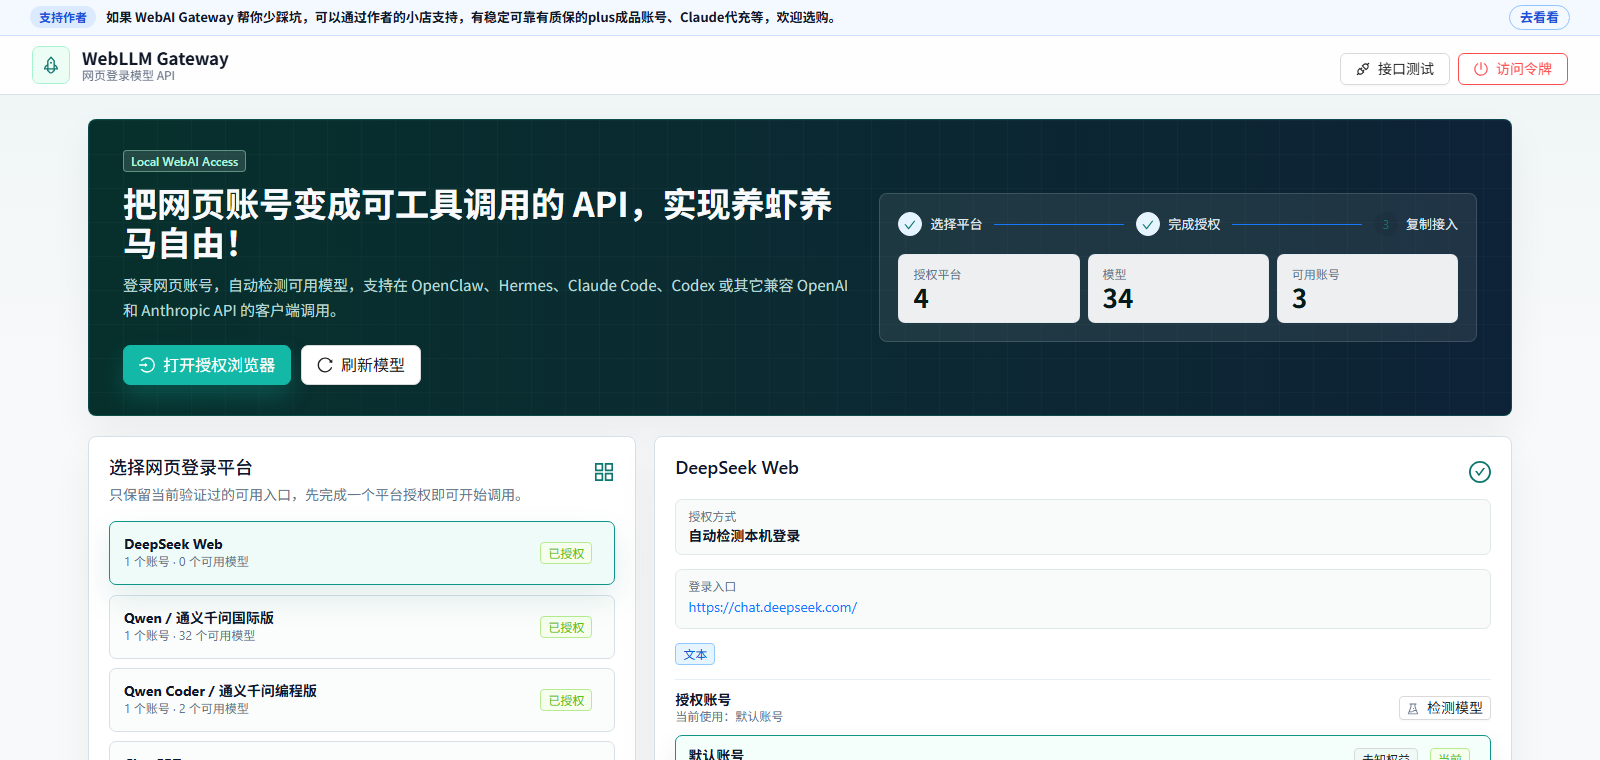
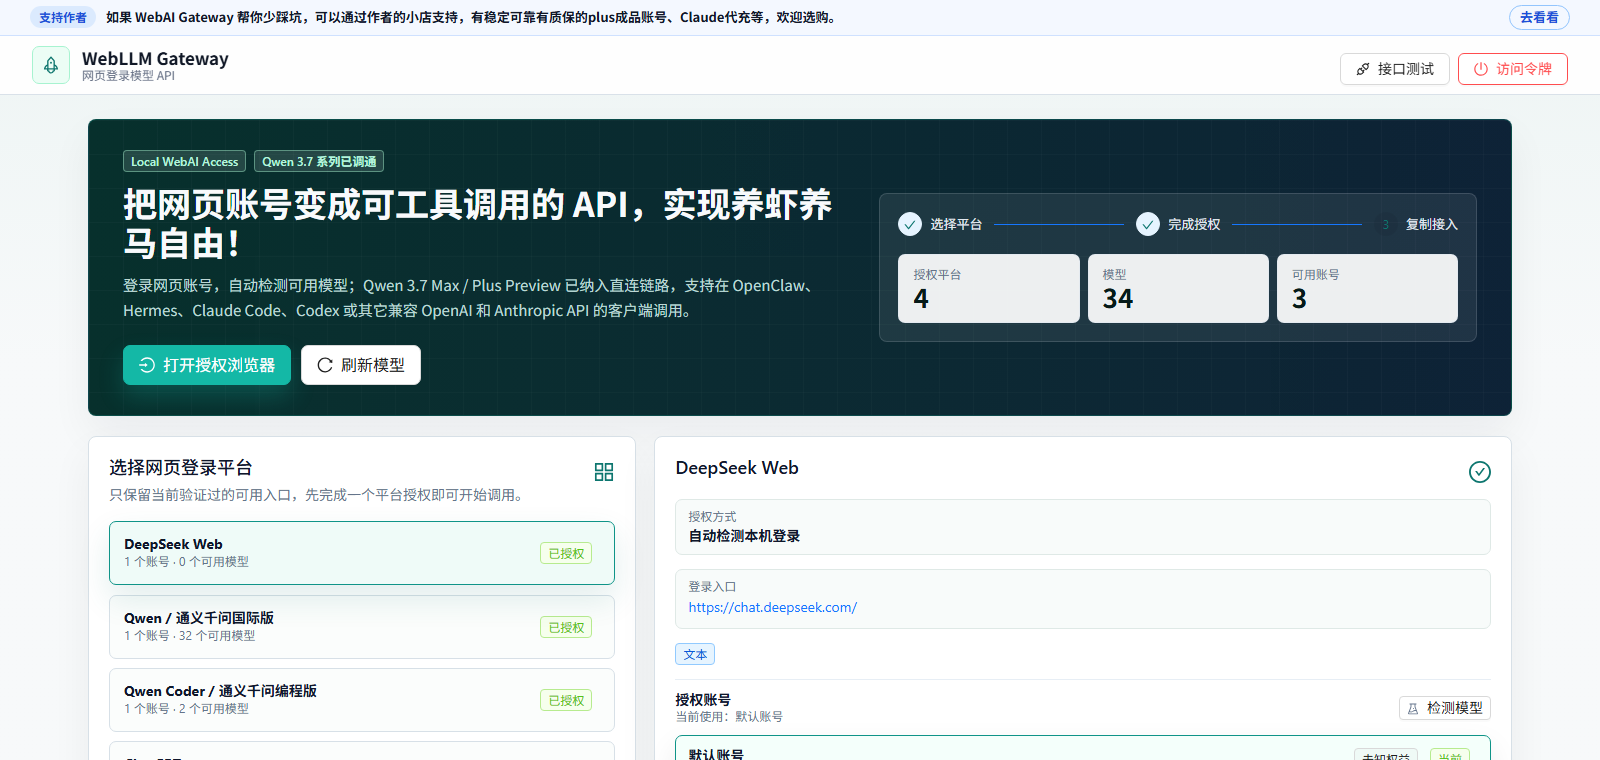
Highlight Qwen 3.7 support

Changed region(s): [[0.0625, 0.3632, 0.5312, 0.4237], [0.1562, 0.1816, 0.25, 0.2421]]

diff --git a/webui/src/components/gateway/KrisBridge.vue b/webui/src/components/gateway/KrisBridge.vue
@@ -982,9 +982,12 @@ onMounted(loadOnboarding);
   <div class="onboarding-shell">
     <section class="hero-panel">
       <div class="hero-copy">
-        <a-tag color="blue">Local WebAI Access</a-tag>
+        <div class="hero-tags">
+          <a-tag color="blue">Local WebAI Access</a-tag>
+          <a-tag color="green">Qwen 3.7 系列已调通</a-tag>
+        </div>
         <h1>把网页账号变成可工具调用的 API，实现养虾养马自由！</h1>
-        <p>登录网页账号，自动检测可用模型，支持在 OpenClaw、Hermes、Claude Code、Codex 或其它兼容 OpenAI 和 Anthropic API 的客户端调用。</p>
+        <p>登录网页账号，自动检测可用模型；Qwen 3.7 Max / Plus Preview 已纳入直连链路，支持在 OpenClaw、Hermes、Claude Code、Codex 或其它兼容 OpenAI 和 Anthropic API 的客户端调用。</p>
         <div class="hero-actions">
           <a-button type="primary" size="large" :loading="actionLoading" @click="handleStartLogin">
             <template #icon><LoginOutlined /></template>
@@ -1571,6 +1574,13 @@ onMounted(loadOnboarding);
   color: #bed8d5;
   font-size: 15px;
   max-width: 740px;
+}
+
+.hero-tags {
+  align-items: center;
+  display: flex;
+  flex-wrap: wrap;
+  gap: 8px;
 }
 
 .hero-copy :deep(.ant-tag) {

diff --git a/webai_gateway/static/index.html b/webai_gateway/static/index.html
@@ -32,7 +32,7 @@
         <header class="topbar">
           <div>
             <h1>WebLLM Gateway 控制台</h1>
-            <p>管理本地 API、网页模型授权和工具调用桥接。</p>
+            <p>管理本地 API、网页模型授权和工具调用桥接。Qwen 3.7 系列已调通，可优先使用 qwen-web/qwen3.7-max-preview。</p>
           </div>
           <button id="refreshButton" class="icon-button" type="button" title="刷新状态" aria-label="刷新状态">
             <span aria-hidden="true">刷新</span>

diff --git a/tests/test_gateway.py b/tests/test_gateway.py
@@ -1313,11 +1313,14 @@ def test_models_returns_configured_model_when_upstream_models_unavailable() -> N
     assert "deepseek-v4-pro[1m]" not in model_ids
     assert "deepseek-web/deepseek-chat" not in model_ids
     assert "deepseek" not in model_ids
+    assert "qwen-web/qwen3.7-max-preview" in model_ids
+    assert "qwen-web/qwen3.7-max" in model_ids
+    assert "qwen-web/qwen3.7-plus-preview" in model_ids
     assert "qwen-web/qwen3.6-max-preview" in model_ids
     assert "qwen-web/qwen3.6-plus" in model_ids
     assert "qwen-web/qwen3-max" in model_ids
     assert "qwen-web/qwen3.6-max" not in model_ids
-    qwen_preview = next(item for item in body["data"] if item["id"] == "qwen-web/qwen3.6-max-preview")
+    qwen_preview = next(item for item in body["data"] if item["id"] == "qwen-web/qwen3.7-max-preview")
     assert qwen_preview["capabilities"]["tool_bridge"] is True
     assert qwen_preview["capabilities"]["supports_native_tools"] is False
     assert "gpt-instant" not in model_ids
@@ -14177,6 +14180,8 @@ def test_vendored_webai2api_frontend_has_gateway_bridge_page() -> None:
     assert "模型不可用原因" in bridge_source
     assert "accountValidationFailures" in bridge_source
     assert "模型验证失败" in bridge_source
+    assert "Qwen 3.7 系列已调通" in bridge_source
+    assert "Qwen 3.7 Max / Plus Preview 已纳入直连链路" in bridge_source
     assert "把网页账号变成可工具调用的 API，实现养虾养马自由！" in bridge_source
     assert "支持在 OpenClaw、Hermes、Claude Code、Codex 或其它兼容 OpenAI 和 Anthropic API 的客户端调用。" in bridge_source
     assert "Gateway 地址" not in bridge_source
@@ -14221,6 +14226,8 @@ def test_public_intro_and_visible_static_ui_do_not_reference_internal_krisai() -
 
     assert "KrisAI" not in readme_source
     assert "KrisAI" not in static_source
+    assert "Qwen 3.7 系列已经调通" in readme_source
+    assert "Qwen 3.7 系列已调通" in static_source
     assert "![WebLLM Gateway 核心界面](docs/assets/webllm-gateway-home.png)" in readme_source
     assert screenshot.exists()
     assert screenshot.stat().st_size > 100_000
@@ -14257,6 +14264,7 @@ def test_open_source_release_materials_are_present() -> None:
     assert "docs/installation.md" in readme
     assert "docs/media-generation.md" in readme
     assert "docs/third-party-runtime.md" in readme
+    assert "qwen-web/qwen3.7-max-preview" in readme
     assert "POST /v1/images/generations" in media
     assert "gpt-image-2" in media
     assert "WebAI2API" in third_party and "MIT" in third_party
@@ -15491,6 +15499,10 @@ def test_web_auth_providers_cover_webai2api_supported_sites(tmp_path: Path) -> N
     assert providers["qwen"]["capabilities"] == {"text": True, "image": False, "video": False}
     assert "qwen_web" in providers["qwen"]["adapters"]
     assert "qwen_cn_web" in providers["qwen-cn"]["adapters"]
+    assert "Qwen 3.7 系列" in providers["qwen"]["description"]
+    assert "qwen-web/qwen3.7-max-preview" in providers["qwen"]["models"]
+    assert "qwen-web/qwen3.7-max" in providers["qwen"]["models"]
+    assert "qwen-web/qwen3.7-plus-preview" in providers["qwen"]["models"]
     assert "qwen-web/qwen3.6-max-preview" in providers["qwen"]["models"]
     assert "qwen-web/qwen3.6-plus" in providers["qwen"]["models"]
     assert "qwen-web/qwen3-max" in providers["qwen"]["models"]

diff --git a/webai_gateway/app.py b/webai_gateway/app.py
@@ -4931,6 +4931,13 @@ def _append_extra_model_payloads(data: dict[str, Any], payloads: list[dict[str, 
     if not payloads:
         return data
     items = data.get("data") if isinstance(data.get("data"), list) else []
+    extra_by_id: dict[str, dict[str, Any]] = {}
+    for item in payloads:
+        if not isinstance(item, dict):
+            continue
+        model_id = normalize_model_id(item.get("id"))
+        if model_id:
+            extra_by_id[model_id] = {**item, "id": model_id}
     out: list[Any] = []
     seen: set[Any] = set()
     for item in items:
@@ -4941,7 +4948,8 @@ def _append_extra_model_payloads(data: dict[str, Any], payloads: list[dict[str, 
         if not model_id or model_id in seen:
             continue
         seen.add(model_id)
-        out.append(_enrich_model_payload({**item, "id": model_id}))
+        source = extra_by_id.get(model_id) or {**item, "id": model_id}
+        out.append(_enrich_model_payload(source))
     for item in payloads:
         if not isinstance(item, dict):
             continue

diff --git a/webai_gateway/web_auth.py b/webai_gateway/web_auth.py
@@ -83,6 +83,9 @@ WEBAI2API_MODELS: dict[str, tuple[str, ...]] = {
         "deepseek-thinking-search-expert",
     ),
     "qwen_web": (
+        "qwen3.7-max-preview",
+        "qwen3.7-max",
+        "qwen3.7-plus-preview",
         "qwen3.6-max",
         "qwen3.6-plus",
         "qwen3.6-flash",
@@ -361,8 +364,11 @@ PROVIDERS: dict[str, WebAuthProvider] = {
         name="Qwen / 通义千问国际版",
         login_url="https://chat.qwen.ai/",
         status="available",
-        description="对标 OpenClaw Zero Token 的 qwen-web：可在本机授权浏览器登录 Qwen，并直接使用 qwen-web/ 前缀模型。",
+        description="Qwen Web 直连链路已调通 Qwen 3.7 系列；可在本机授权浏览器登录 Qwen，并直接使用 qwen-web/ 前缀模型。",
         models=(
+            "qwen-web/qwen3.7-max-preview",
+            "qwen-web/qwen3.7-max",
+            "qwen-web/qwen3.7-plus-preview",
             "qwen-web/qwen3.6-max-preview",
             "qwen-web/qwen3.6-plus",
             "qwen-web/qwen3.5-plus",

diff --git a/README.md b/README.md
@@ -1,6 +1,6 @@
 # WebLLM Gateway
 
-WebLLM Gateway 是一个独立的网页登录模型 API 网关：把 Qwen Web、DeepSeek Web 和已验证的网页登录模型包装成 OpenAI / Anthropic 兼容、可工具调用的标准 API，让 OpenClaw、Hermes、Claude Code、Codex 等客户端像调用原生模型 API 一样使用网页账号。
+WebLLM Gateway 是一个独立的网页登录模型 API 网关：把 Qwen Web、DeepSeek Web 和已验证的网页登录模型包装成 OpenAI / Anthropic 兼容、可工具调用的标准 API，让 OpenClaw、Hermes、Claude Code、Codex 等客户端像调用原生模型 API 一样使用网页账号。Qwen 3.7 系列已经调通，Qwen 3.7 Max / Plus Preview 可通过 qwen-web 直连链路接入。
 
 > Turn web AI accounts into OpenAI/Anthropic-compatible, tool-callable APIs.
 
@@ -25,6 +25,7 @@ WebLLM Gateway 是一个独立的网页登录模型 API 网关：把 Qwen Web、
 ## 项目优势
 
 - **协议稳定**：优先保持 OpenAI / Anthropic 兼容响应结构，工具调用返回标准 `tool_calls` 或 `tool_use`，不把网页模型的自然语言幻想当成真实工具结果。
+- **Qwen 3.7 已就绪**：Qwen 3.7 Max、Qwen 3.7 Max Preview、Qwen 3.7 Plus Preview 已纳入直连模型目录和回归验证，适合优先作为 Claude Code、Codex、OpenClaw、Hermes 的编程/工具调用模型测试入口。
 - **边界清楚**：Gateway 不接管 agent loop、不执行本地工具、不绕过客户端权限系统，适合作为 OpenClaw、Hermes、Claude Code、Codex 等客户端前面的统一协议层。
 - **可对标验证**：DeepSeek 链路以 ds2api 作为外部 oracle 对照；Qwen 链路持续用真实请求和 parity/oracle 测试回归。
 - **面向小白**：前端优先展示授权、模型检测、接入地址、API Key 和模型 ID；高级 adapter runtime 页面只作为诊断入口。
@@ -147,7 +148,7 @@ OpenAI 兼容客户端：
 ```text
 base_url = http://127.0.0.1:8610/v1
 api_key = local-dev-key
-model = qwen-web/qwen3.6-max-preview
+model = qwen-web/qwen3.7-max-preview
 ```
 
 Claude Code / Anthropic 兼容客户端可使用：
@@ -155,7 +156,7 @@ Claude Code / Anthropic 兼容客户端可使用：
 ```text
 base_url = http://127.0.0.1:8610/v1
 api_key = local-dev-key
-model = qwen-web/qwen3.6-max-preview
+model = qwen-web/qwen3.7-max-preview
 endpoint = /v1/messages
 ```
 
@@ -166,9 +167,9 @@ Claude Code Best 可在 `/login` 里选择 `Anthropic Compatible`，或写入 `~
   "env": {
     "ANTHROPIC_BASE_URL": "http://127.0.0.1:8610/v1",
     "ANTHROPIC_AUTH_TOKEN": "local-dev-key",
-    "ANTHROPIC_DEFAULT_HAIKU_MODEL": "qwen-web/qwen3.5-plus",
-    "ANTHROPIC_DEFAULT_SONNET_MODEL": "qwen-web/qwen3.6-plus",
-    "ANTHROPIC_DEFAULT_OPUS_MODEL": "qwen-web/qwen3.6-max-preview"
+    "ANTHROPIC_DEFAULT_HAIKU_MODEL": "qwen-web/qwen3.7-plus-preview",
+    "ANTHROPIC_DEFAULT_SONNET_MODEL": "qwen-web/qwen3.7-max",
+    "ANTHROPIC_DEFAULT_OPUS_MODEL": "qwen-web/qwen3.7-max-preview"
   }
 }
 ```
@@ -211,9 +212,12 @@ POST /v1/images/generations
 
 ## 模型目录
 
-Qwen / 通义千问国际版本地直连模型：
+Qwen / 通义千问国际版本地直连模型，首推已经调通的 Qwen 3.7 系列：
 
 ```text
+qwen-web/qwen3.7-max-preview
+qwen-web/qwen3.7-max
+qwen-web/qwen3.7-plus-preview
 qwen-web/qwen3.6-max-preview
 qwen-web/qwen3.6-plus
 qwen-web/qwen3.5-plus